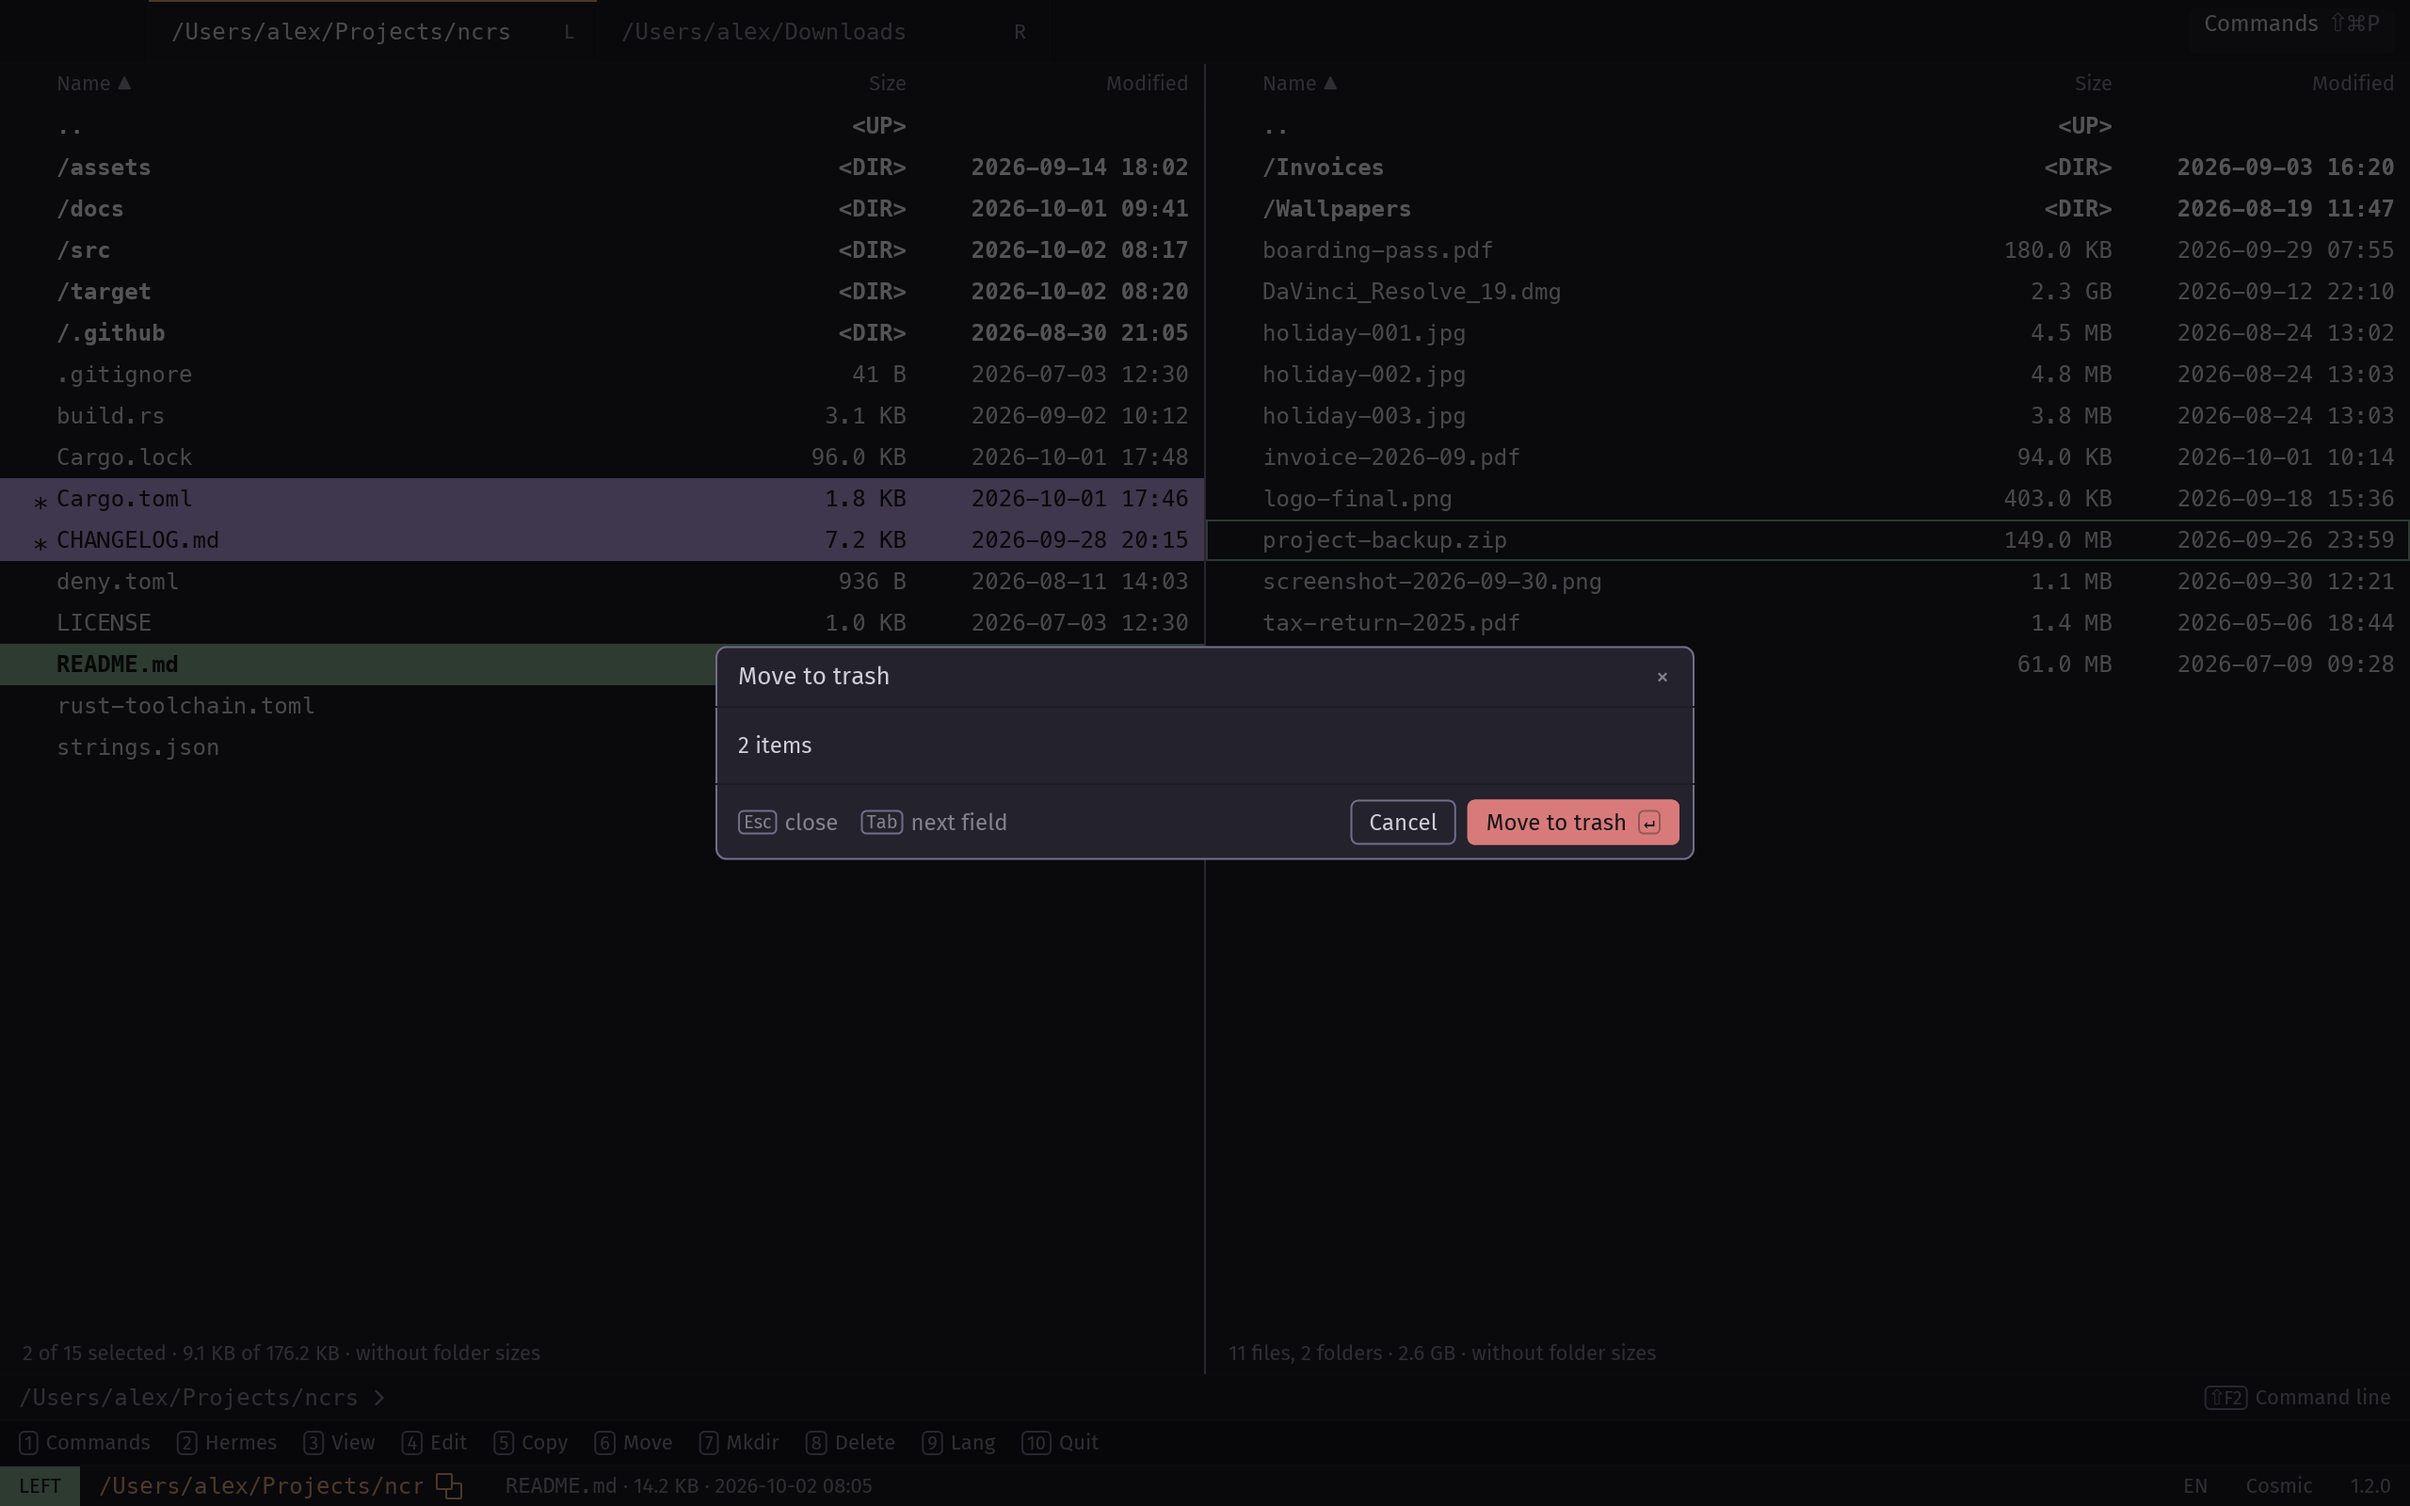
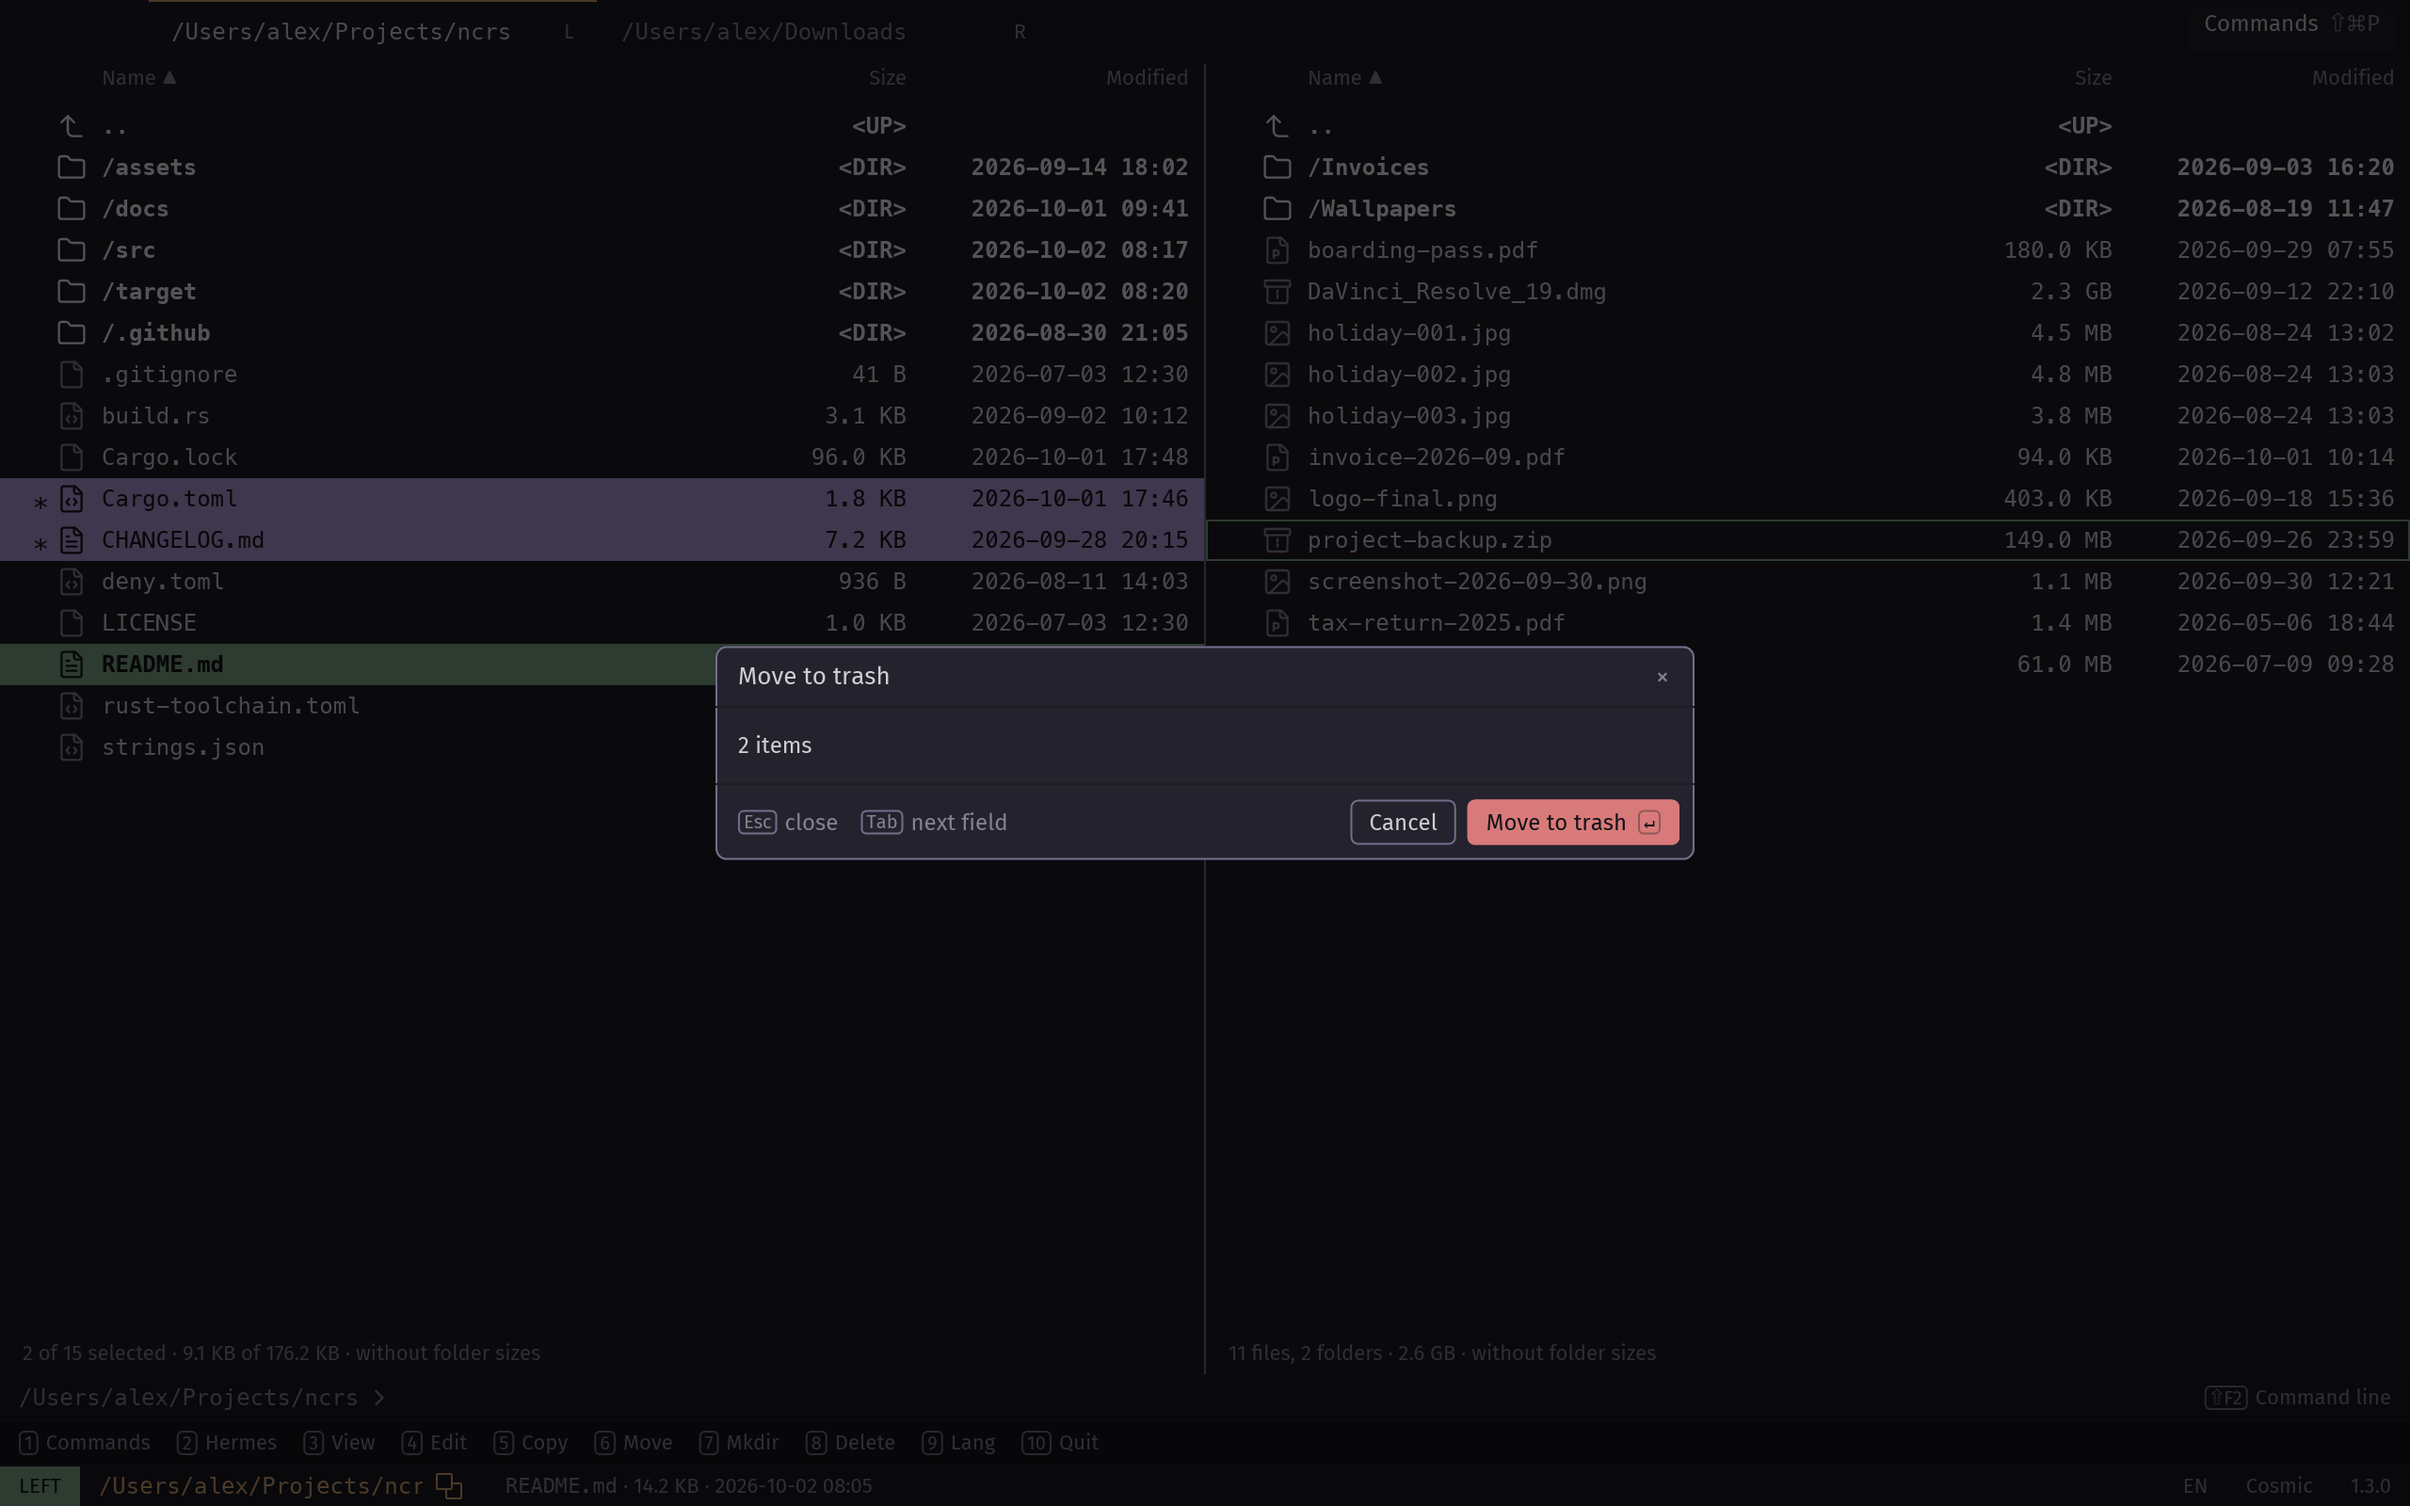
Prepare release 1.3.0
Version 1.3.0, the changelog section with everything merged since 1.2.0, the
columns, font, permissions and update check in the README, and the README and
store screenshots rendered again with the icon column and the search folder
row.

diff --git a/CHANGELOG.md b/CHANGELOG.md
@@ -6,6 +6,63 @@ All notable changes to this project are documented here. The format follows
 
 ## [Unreleased]
 
+## [1.3.0] — 2026-11-08
+
+### Added
+
+- Panel columns: name, icon, size, modified, created, type, extension,
+  permissions, owner, group, access and link target. Choose them from the
+  context menu of a panel header or on the new Columns settings page, for both
+  panels or per panel. Drag a title edge to change a width; widths are saved.
+  The date and size formats are settings.
+- An icon column in front of the name, with distinct icons for folder kinds,
+  links, broken links and file types.
+- The Appearance settings page chooses the font (the system monospace font, the
+  bundled font or any installed monospace family) and its size, with a live
+  preview. Everything in the window scales with the size.
+- "Permissions…" in the context menu, the File menu, the command list and on
+  `Alt`+`Cmd`+`R` shows and changes the access rights of one or many entries,
+  as checkboxes or an octal value. For folders it can also change their
+  contents (files as above or without execute, folders as above or
+  unchanged). It runs in the background with progress and cancel, and never
+  follows links. On Windows only read-only can be changed.
+- Update check: an Updates settings page with the installed version, a switch
+  for the check, and how to install a newer release (release notes or the
+  package manager command). ncrs asks GitHub at most once a day; the check is
+  on by default only for direct downloads, and the App Store build has none.
+  A dot on the status bar version marks a newer release; pressing the version
+  opens the Updates page.
+- A rule can be limited to one read folder: with more than one read folder,
+  the Hermes chat proposal offers "Only from …".
+- The search has a folder row that shows where it looks. Type a path there
+  (`~` for home) or pick one with "Choose…"; a folder that does not exist or
+  may not be read says so. A search without hits names its folder.
+- Settings, the system monitor and the Hermes chat stay open as tabs in the
+  title bar. F12, `Cmd`+`,` and F2 switch to an open tab.
+- With the panels shown, `Tab` and `Shift`+`Tab` switch between the left and
+  right panel, and `Left` and `Right` pick a panel. `Ctrl`+`Tab` and
+  `Ctrl`+`Shift`+`Tab` walk all open tabs. All of them are key actions in the
+  new Go menu; your own bindings of these keys win.
+- Every settings page works with the arrow keys: rows, dropdowns, each button
+  of a row. A dropdown opened by keyboard floats below its field.
+
+### Changed
+
+- Pressing the version in the status bar opens the Updates page instead of
+  the About card.
+- A link to a folder shows as `~name` like any other link, not as `/name`.
+- Picking a setting in the command list (F1) brings a hidden settings tab
+  forward.
+
+### Fixed
+
+- Pasting a path into the command line no longer creates a file.
+- Bitmap-only fonts (such as "GB18030 Bitmap" on macOS) are left out of the
+  font list; drawing them crashed the app.
+- `install.ps1` on Windows on ARM installs the x64 build instead of asking for
+  an archive that does not exist.
+- The README lists `brew trust` for the tap, which newer Homebrew needs.
+
 ## [1.2.0] — 2026-11-06
 
 ### Added

diff --git a/README.md b/README.md
@@ -151,7 +151,12 @@ The same window in German, switched with F9.
 - Multi-selection: tag rows with `Insert` or `Space` (or `Shift`+`Up`/`Down`, or Cmd/Ctrl-click), an operation applies to the tagged rows, or to
   the single row under the cursor when nothing is tagged
 - Keyboard navigation, selection highlighting, auto-scrolling
-- Name / Size / Modified columns, directories first, case-insensitive sort
+- Columns per panel: name, icon, size, modified, created, type, extension, permissions, owner, group,
+  access and link target, chosen from the header's context menu or the Columns settings page; drag a
+  title edge for its width. Directories first, case-insensitive sort
+- Font and size on the Appearance settings page; everything scales with the size
+- "Permissions…" (`Alt`+`Cmd`+`R`) changes access rights of one or many entries, optionally of a
+  folder's contents, in the background and without following links
 - Folder sizes on request: "Compute folder sizes" in the command list or the
   context menu measures the tagged folders, the folder under the cursor, or every
   folder of the listing when the cursor is on `..`. The size column shows the
@@ -162,7 +167,7 @@ The same window in German, switched with F9.
 - Stale-result protection (fast navigation cannot show an outdated listing)
 - Errors (e.g. *Permission denied*) are shown in the status bar – no panics
 - Confirmations (e.g. *Path copied*) appear at the right of the status bar for three seconds
-- The right end of the status bar shows the language, the theme and the app version; the version opens the About card
+- The right end of the status bar shows the language, the theme and the app version; the version opens the Updates settings page, and a dot on it marks a newer release
 - Mouse click selects a row and activates its panel; the wheel and the trackpad scroll the panel under the pointer
 - Drive menu (`Alt`+`F1` / `Alt`+`F2`): jump a panel to the system volume, home, iCloud Drive and
   cloud storage folders such as Google Drive, OneDrive or Dropbox (macOS), mounted volumes or
